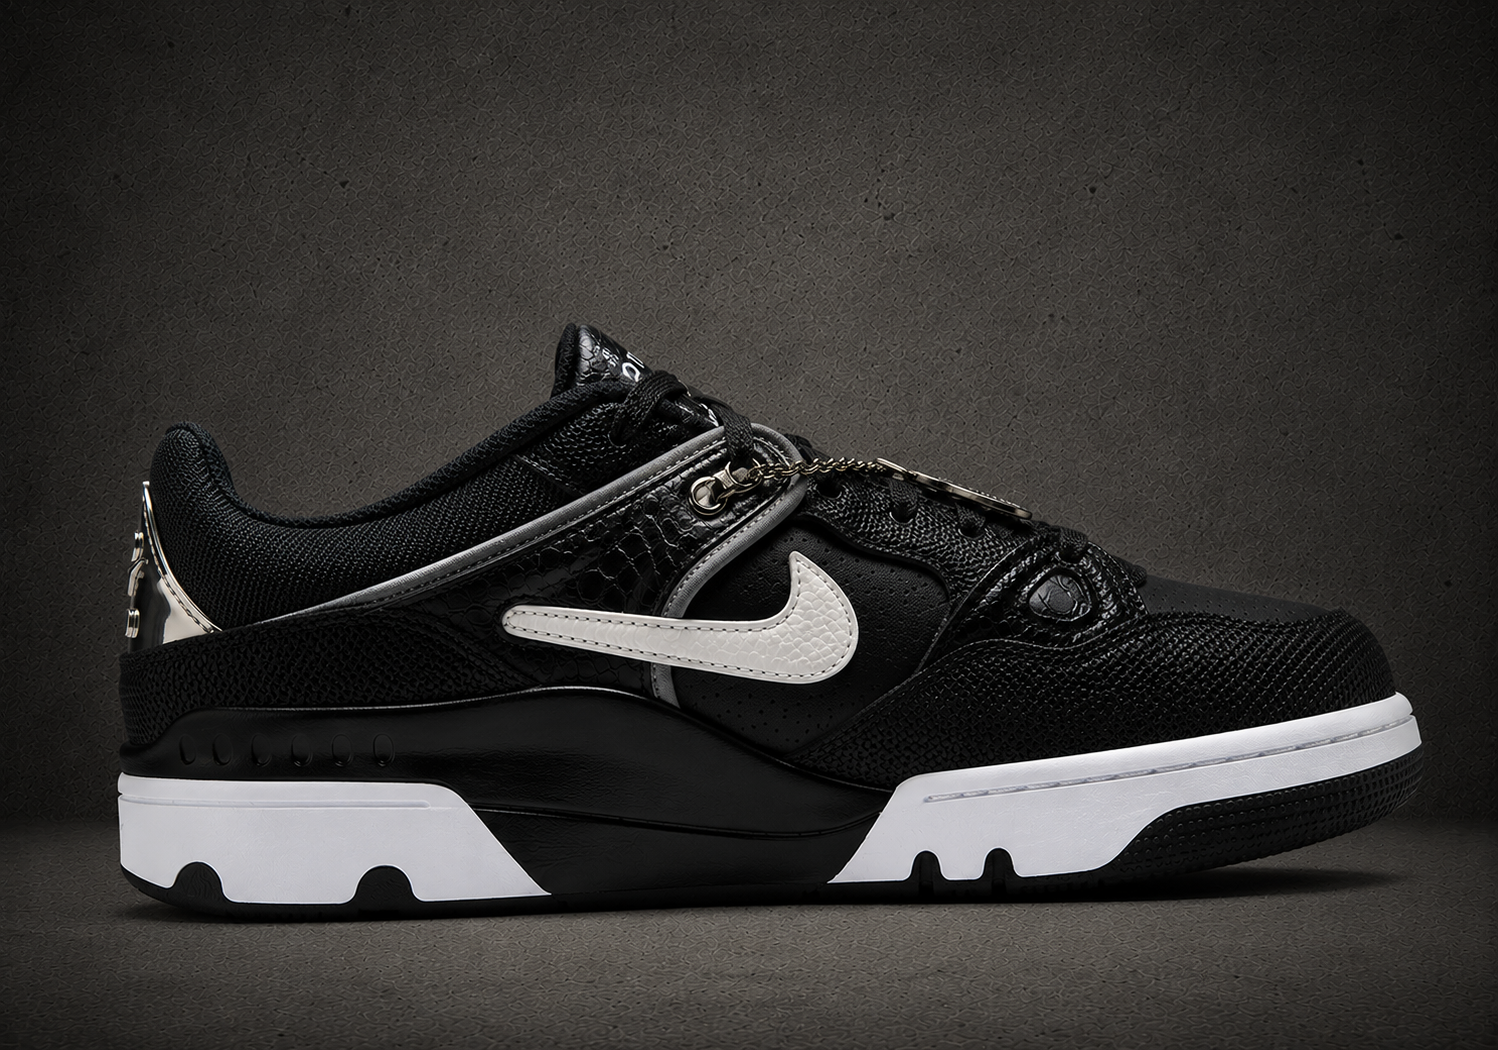
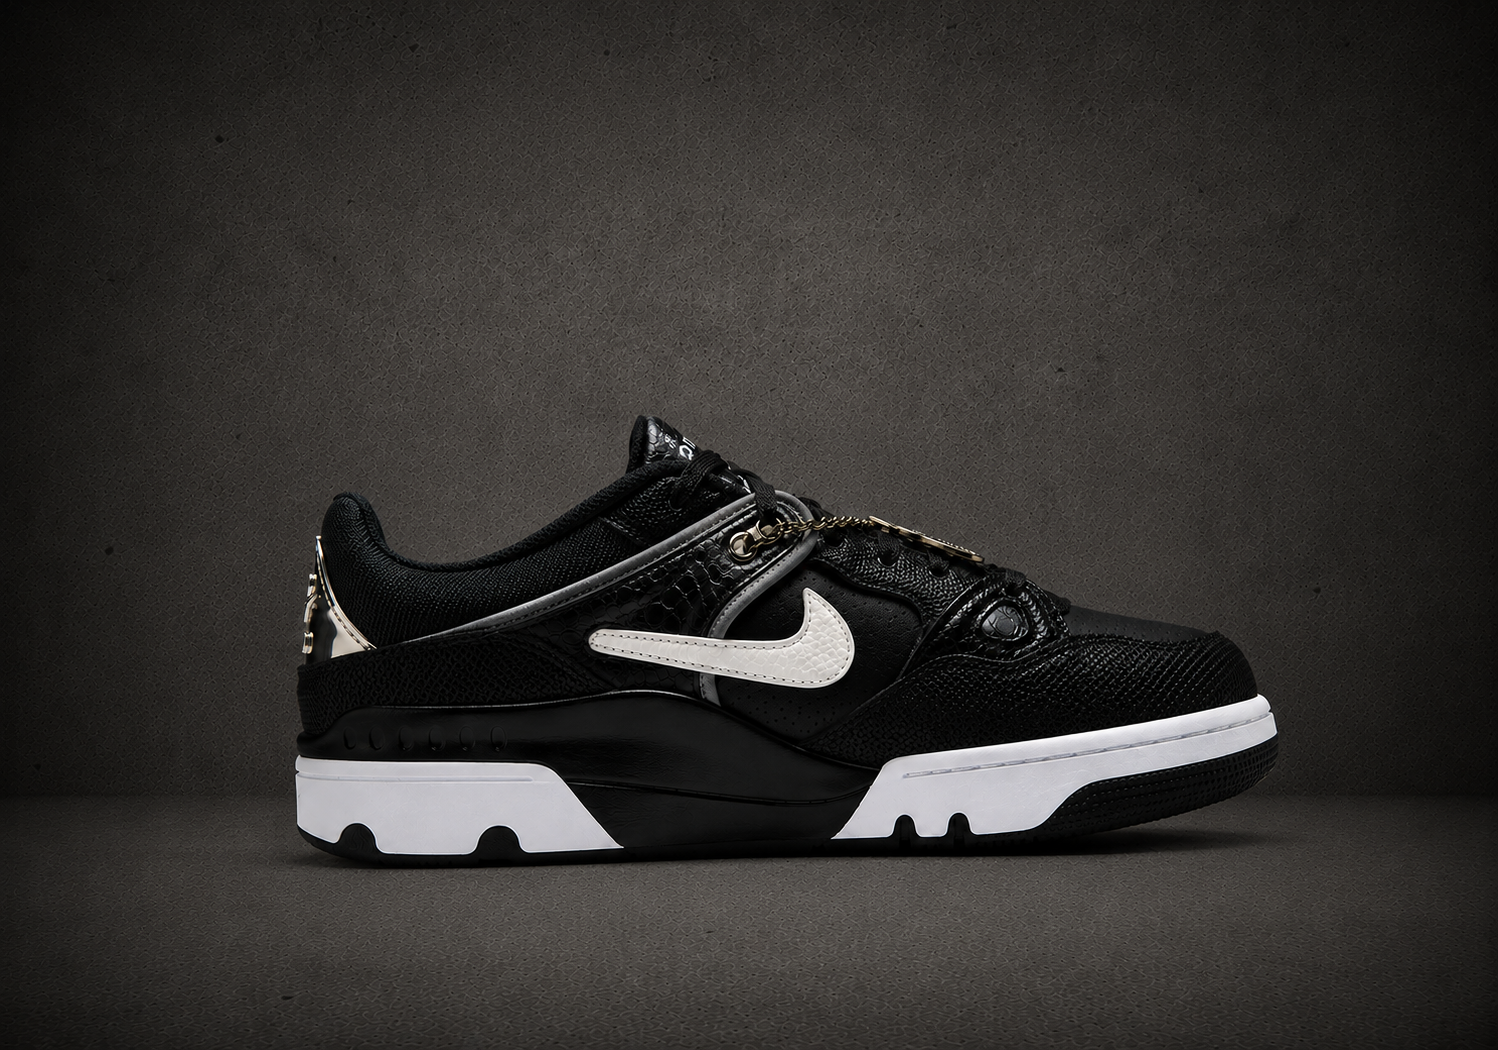
Cambio a WebP

diff --git a/index.html b/index.html
@@ -552,7 +552,7 @@ html {
     <div class="card">
       <a href="snkrdispo/sdcasilla1.html">
 
-      <img src="snkrdispofoto1/img03.png"
+      <img src="snkrdispofoto1/img03.webp"
       loading="lazy"
       alt="Nike Terminator Low">
       </a>
@@ -567,7 +567,7 @@ html {
   
     <div class="card">
       <a href="snkrdispo/sdcasilla2.html">
-      <img src="snkrdispofoto1/img04.png"
+      <img src="snkrdispofoto1/img04.webp"
       loading="lazy"
       alt="Nike SB Vertebrae ISO">
       </a>
@@ -584,7 +584,7 @@ html {
 
       <a href="snkrdispo/sdcasilla3.html">
         
-      <img src="snkrdispofoto1/img07.png" 
+      <img src="snkrdispofoto1/img07.webp" 
       loading="lazy" 
       alt="Nike Jordan Courtside 23">
       </a>
@@ -601,7 +601,7 @@ html {
 
      <a href="snkrdispo/sdcasilla4.html">
 
-      <img src="snkrdispofoto1/img10.png"
+      <img src="snkrdispofoto1/img10.webp"
       loading="lazy"
       alt="Nike Jordan 3">
       </a>
@@ -618,7 +618,7 @@ html {
 
       <a href="snkrdispo/sdcasilla5.html">
 
-      <img src="snkrdispofoto1/img13.png" 
+      <img src="snkrdispofoto1/img13.webp" 
       loading="lazy" 
       alt="NIGO® × Nike Air Force 3 Low SP ">
       </a>
